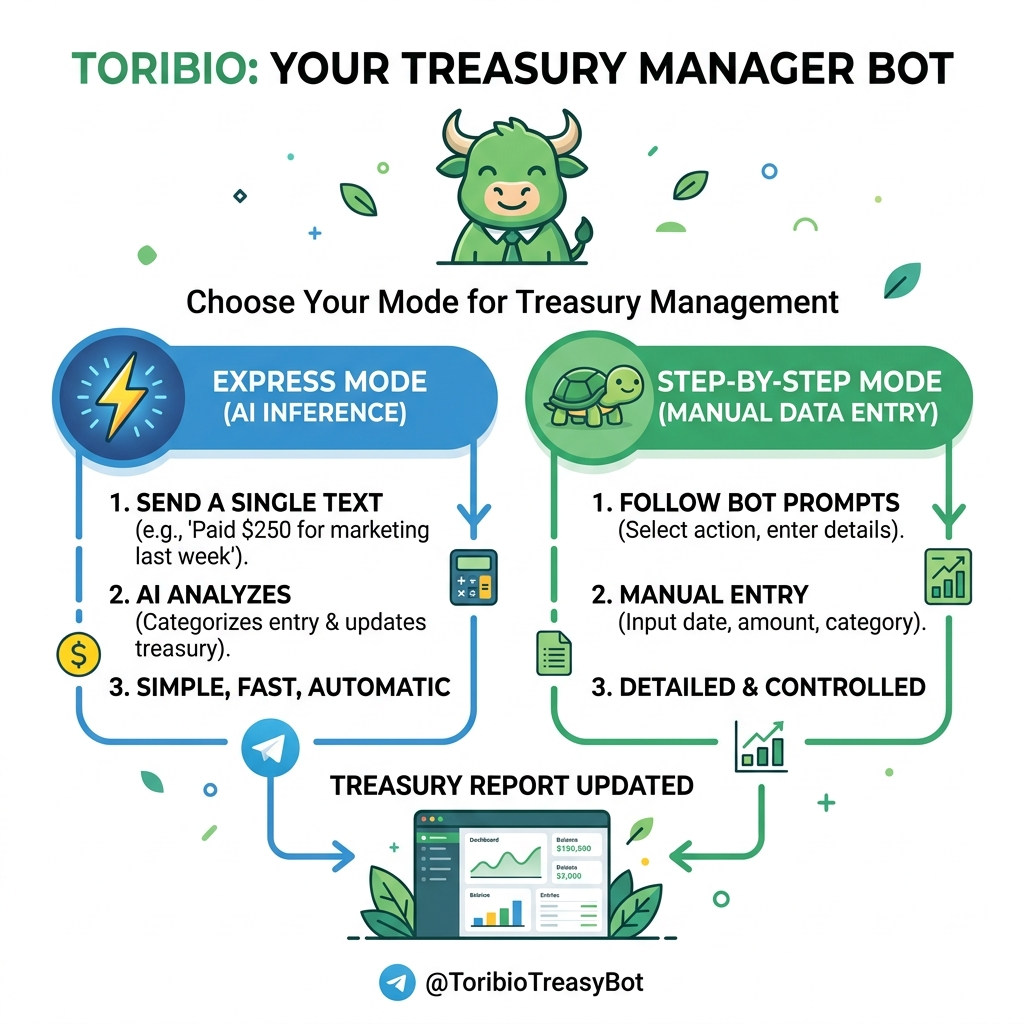
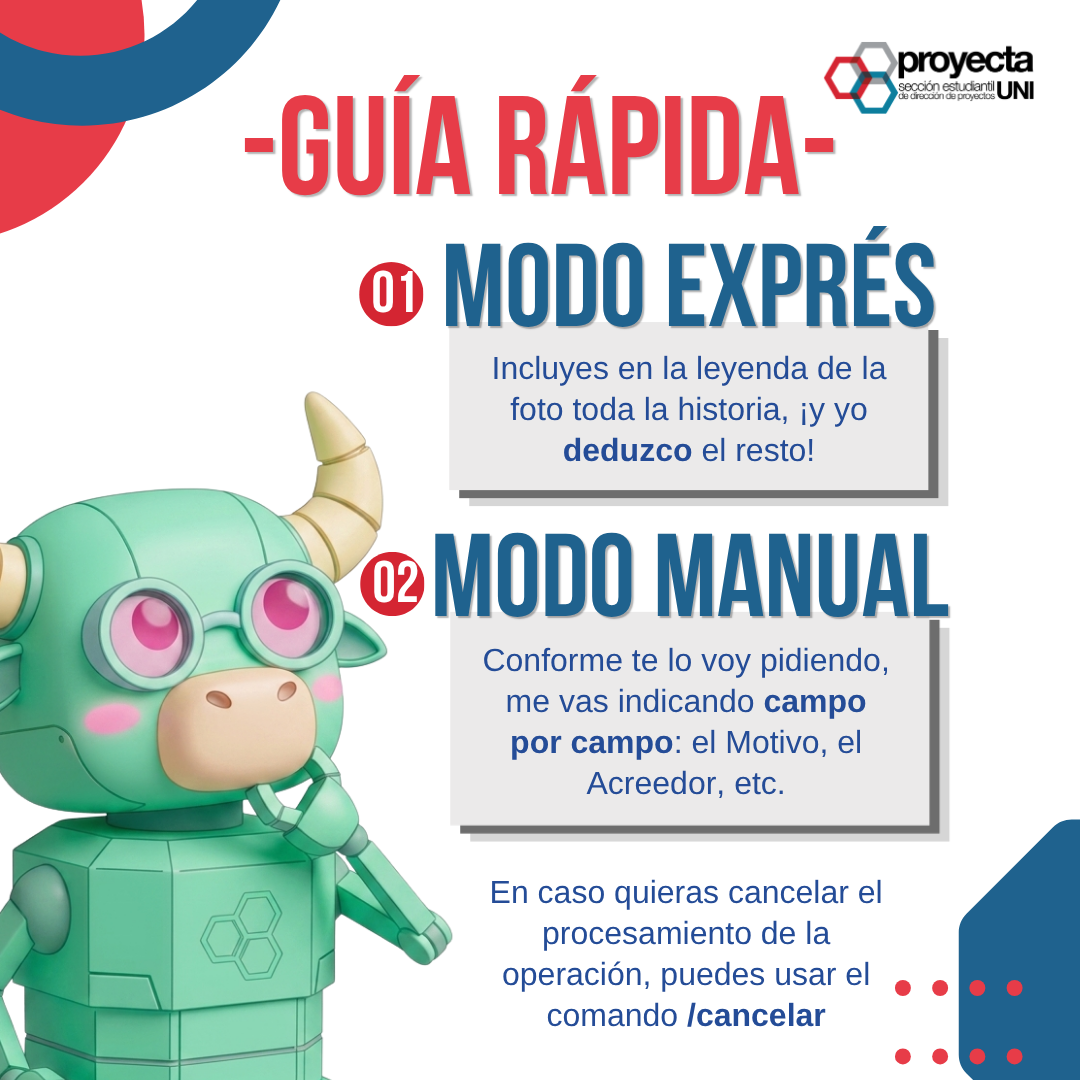
style: update infographic image and main.py text

diff --git a/main.py b/main.py
@@ -117,7 +117,7 @@ async def telegram_webhook(request: Request):
     # --- 2. MANEJO DE TEXTO ---
     state = user_states.get(chat_id)
     if not state:
-        enviar_mensaje(chat_id, "¡Hola! Soy Toribio, tu asistente de tesorería. Envíame la foto de tu comprobante o captura para empezar.\n\n💡 <i>Tip: Si me pones toda la explicación en la leyenda de la foto, vamos más rápido.</i>\n🛑 <i>Tip: Escribe <b>/cancelar</b> en cualquier momento si quieres abortar y empezar de nuevo.</i>\n❓ <i>Tip: Escribe <b>/ayuda</b> para ver mi infografía explicativa.</i>")
+        enviar_mensaje(chat_id, "¡Hola! Soy Toribot, tu asistente de tesorería. Envíame la foto de tu comprobante o captura para empezar.\n\n💡 <i>Tip: Si me pones toda la explicación en la leyenda de la foto, vamos más rápido.</i>\n🛑 <i>Tip: Escribe <b>/cancelar</b> en cualquier momento si quieres abortar y empezar de nuevo.</i>\n❓ <i>Tip: Escribe <b>/ayuda</b> para ver mi infografía explicativa.</i>")
         return {"status": "ok"}
 
     text = message.get("text", "").strip()
@@ -128,7 +128,7 @@ async def telegram_webhook(request: Request):
         return {"status": "ok"}
 
     if text.lower() == "/ayuda":
-        caption = "🤖 <b>Guía Rápida de Toribio</b>\n\nAquí te explico cómo funciono. ¡Por favor abre la imagen para que veas los dos caminos que puedes tomar!\n\n💡 <i>Tip 1: Si me equivoco deduciendo algo en el Modo Exprés, ¡no te preocupes! Siempre te daré la opción de Editar los datos antes de guardarlos definitivamente.</i>\n\n❓ <i>Tip 2: Siempre que te pierdas, puedes escribir /ayuda para volver a ver esto.</i>"
+        caption = "🤖 <b>Guía Rápida de Toribot</b>\n\nAquí te explico cómo funciono. ¡Por favor abre la imagen para que veas los dos caminos que puedes tomar!\n\n💡 <i>Tip 1: Si me equivoco deduciendo algo en el Modo Exprés, ¡no te preocupes! Siempre te daré la opción de Editar los datos antes de guardarlos definitivamente.</i>\n\n❓ <i>Tip 2: Siempre que te pierdas, puedes escribir /ayuda para volver a ver esto.</i>"
         if os.path.exists("infografia.png"):
             with open("infografia.png", "rb") as archivo:
                 requests.post(